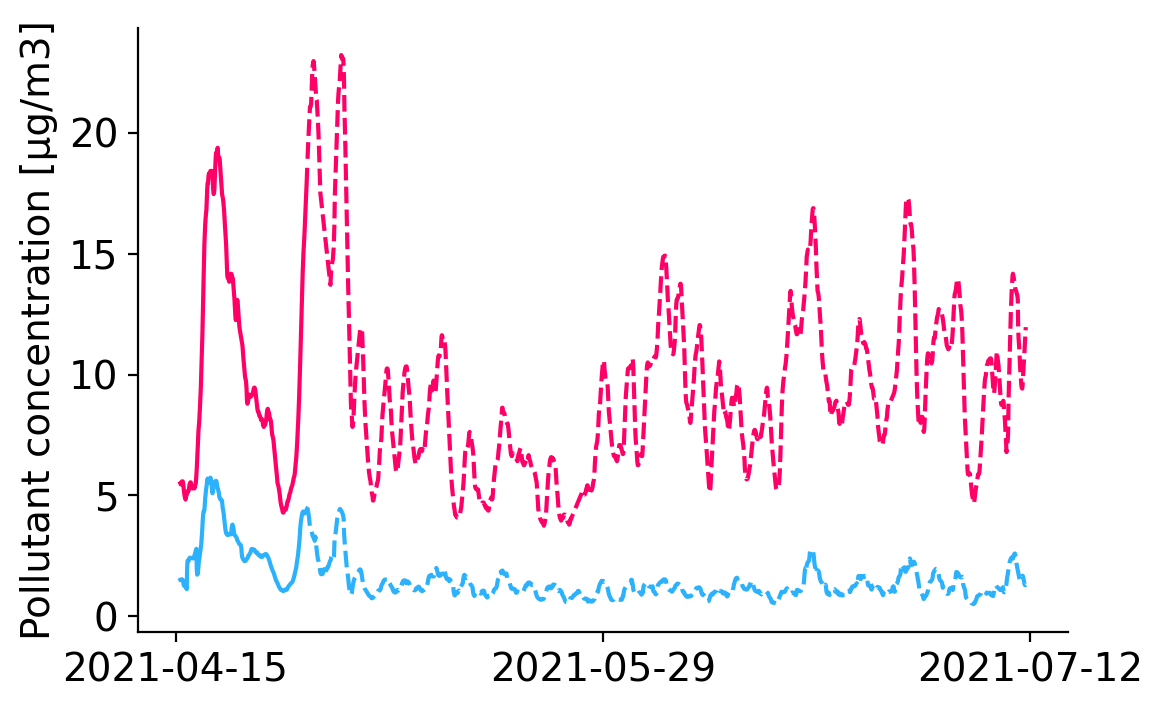
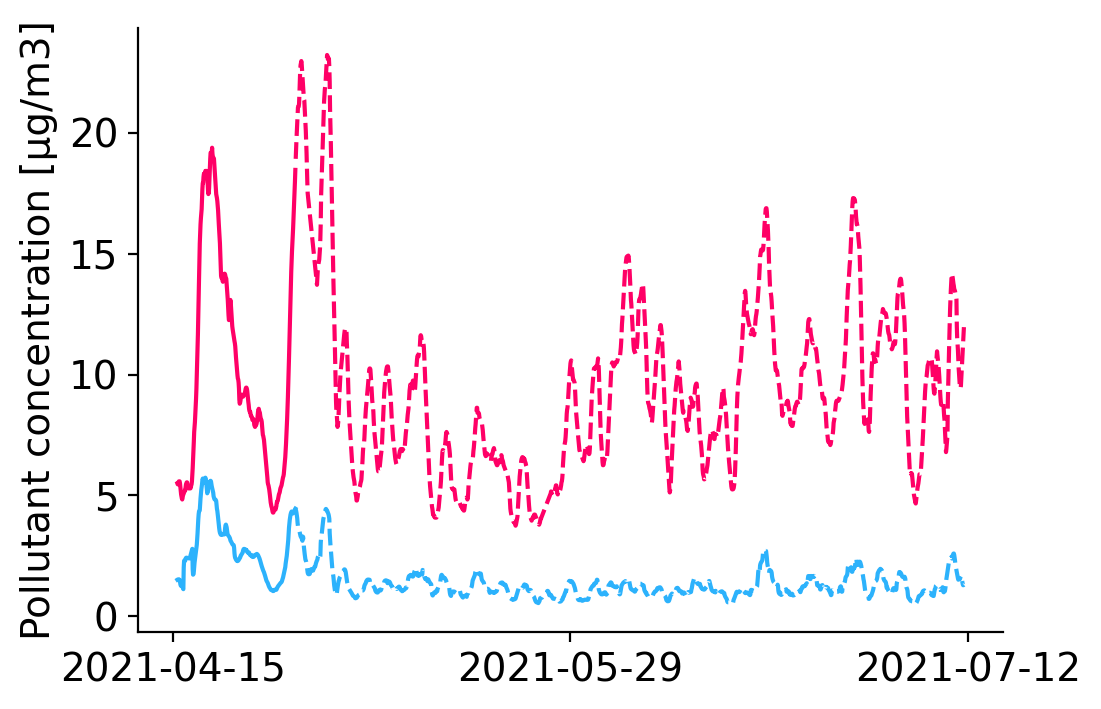
Adjusted plot aspect ratio.

diff --git a/py_air_quality/analysis/analysis_filter_effect_berlinluftdaten.py b/py_air_quality/analysis/analysis_filter_effect_berlinluftdaten.py
@@ -234,6 +234,8 @@ graph.axes.spines['right'].set_visible(False)
 
 graph.get_legend().remove()
 
+graph.set_aspect(3.0)
+
 figure = graph.get_figure()
 figure.savefig(os.path.join(path_out, 'timeplot.png'),
                dpi=200.0,
